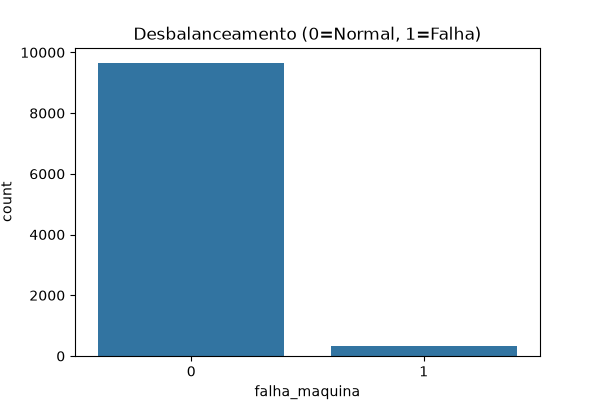
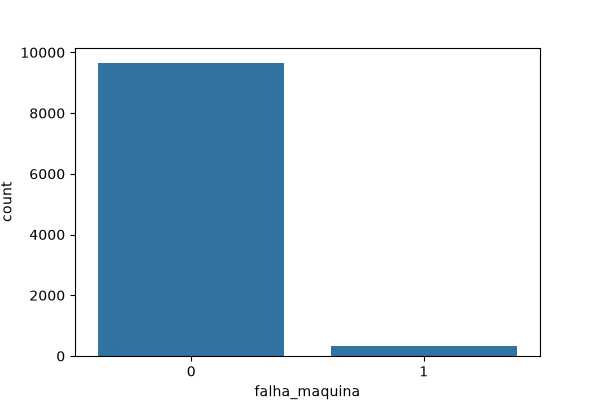
feat: adiciona Gradient Boosting e atualiza README com comparacao de 4 modelos

Changed region(s): [[0.21, 0.06, 0.81, 0.12]]

diff --git a/pipeline_m1s13.py b/pipeline_m1s13.py
@@ -1,7 +1,8 @@
 # -*- coding: utf-8 -*-
 """
-Projeto Avaliativo M1 - Desenvolvimento de IA para Análise Preditiva (SCTEC/SENAI)
+Oikos Machine - Manutencao Preditiva (Industria 4.0)
 Autor: Helyton Ronchi
+Curso: SCTEC/SENAI - Modulo 1
 """
 import pandas as pd
 import numpy as np
@@ -11,124 +12,103 @@ from sklearn.model_selection import train_test_split
 from sklearn.preprocessing import LabelEncoder, StandardScaler
 from sklearn.neighbors import KNeighborsClassifier
 from sklearn.tree import DecisionTreeClassifier
-from sklearn.metrics import accuracy_score, precision_score, recall_score
+from sklearn.ensemble import RandomForestClassifier, GradientBoostingClassifier
+from sklearn.metrics import accuracy_score
 from imblearn.over_sampling import SMOTE
 
-# ==========================================
-# FASE 1: ANÁLISE EXPLORATÓRIA (EDA)
-# ==========================================
+# FASE 1: ANALISE EXPLORATORIA (EDA)
 df = pd.read_csv('manutencao_preditiva.csv')
-print("Dimensões:", df.shape)
+print("Dimensoes:", df.shape)
 print(df.describe())
 print(df['falha_maquina'].value_counts(normalize=True) * 100)
 
-# Gráfico 1: Histograma (distribuição das preditoras)
 plt.figure(figsize=(10, 6))
 sns.histplot(df['torque_nm'], bins=30, kde=True)
-plt.title('Distribuição do Torque')
-plt.savefig('grafico_histograma.png')
-plt.close()
+plt.savefig('grafico_histograma.png'); plt.close()
 
-# Gráfico 2: Barras (desbalanceamento)
 plt.figure(figsize=(6, 4))
 sns.countplot(x='falha_maquina', data=df)
-plt.title('Desbalanceamento (0=Normal, 1=Falha)')
-plt.savefig('grafico_barras.png')
-plt.close()
+plt.savefig('grafico_barras.png'); plt.close()
 
-# Gráfico 3: Heatmap de correlação
 plt.figure(figsize=(10, 8))
 sns.heatmap(df.select_dtypes(include=['float64', 'int64']).corr(), annot=True, cmap='coolwarm')
-plt.title('Correlação de Pearson')
-plt.savefig('grafico_heatmap.png')
-plt.close()
+plt.savefig('grafico_heatmap.png'); plt.close()
 
-# ==========================================
+print("\n=== ANALISE DOS PADROES (EDA) ===")
+print("Desbalanceamento extremo (96.6% normal vs 3.4% falha) justifica o uso de SMOTE apenas no treino.")
+print("Histograma do torque mostra assimetria, o que justifica a imputacao por mediana nos nulos.")
+print("Heatmap mostra baixa correlacao linear entre as features.")
+
 # FASE 2: LIMPEZA E TRATAMENTO
-# ==========================================
-# Remover duplicatas
 df = df.drop_duplicates()
-print("Após remover duplicatas:", df.shape)
-
-# Tratar nulos: imputação por MEDIANA (justificativa: variáveis com outliers)
 for col in ['temperatura_ar_k', 'temperatura_processo_k', 'velocidade_rotacao_rpm', 'torque_nm']:
     df[col] = df[col].fillna(df[col].median())
+df = df.drop(columns=['falha_twf', 'falha_hdf', 'falha_pwf', 'falha_osf', 'falha_rnf'])
 
-# Boxplots para outliers
-plt.figure(figsize=(10, 6))
-sns.boxplot(data=df[['torque_nm', 'desgaste_ferramenta_min']])
-plt.title('Boxplot: Outliers')
-plt.savefig('grafico_boxplot.png')
-plt.close()
-
-# Remover colunas de vazamento
-colunas_vazamento = ['falha_twf', 'falha_hdf', 'falha_pwf', 'falha_osf', 'falha_rnf']
-df = df.drop(columns=colunas_vazamento)
-
-# ==========================================
 # FASE 3: FEATURE ENGINEERING
-# ==========================================
-# Criar coluna de potência (torque * rpm), tratando nulos antes
-df['potencia_w'] = df['torque_nm'] * df['velocidade_rotacao_rpm']
-print("Potência criada. Nulos restantes:", df['potencia_w'].isna().sum())
+df['potencia_w'] = df['torque_nm'] * df['velocidade_rotacao_rpm'] * 2 * np.pi / 60
+print("\nPotencia criada (watts). Nulos restantes:", df['potencia_w'].isna().sum())
 
-# ==========================================
-# FASE 4: DIVISÃO E BALANCEAMENTO
-# ==========================================
-le = LabelEncoder()
-df['tipo'] = le.fit_transform(df['tipo'])
-
+# FASE 4: DIVISAO E BALANCEAMENTO
+df['tipo'] = LabelEncoder().fit_transform(df['tipo'])
 X = df.drop(columns=['udi', 'id_produto', 'falha_maquina'])
 y = df['falha_maquina']
 
 X_train, X_test, y_train, y_test = train_test_split(X, y, test_size=0.2, random_state=42, stratify=y)
-
 smote = SMOTE(random_state=42)
 X_train_res, y_train_res = smote.fit_resample(X_train, y_train)
-print("Após SMOTE (treino):", X_train_res.shape)
+print("Apos SMOTE (treino):", X_train_res.shape)
 
-# ==========================================
 # FASE 5: ESCALONAMENTO (APENAS KNN)
-# ==========================================
 scaler = StandardScaler()
 X_train_scaled = scaler.fit_transform(X_train_res)
 X_test_scaled = scaler.transform(X_test)
-# A Árvore não é escalonada porque é imune à escala (divide por limiares, não por distância).
 
-# ==========================================
-# FASE 6: AJUSTE DE PARÂMETROS E OVERFITTING
-# ==========================================
-# KNN: testar K = 3, 5, 7
+# FASE 6: AJUSTE DE PARAMETROS (KNN E ARVORE)
 print("\n--- KNN ---")
 for k in [3, 5, 7]:
     knn = KNeighborsClassifier(n_neighbors=k)
     knn.fit(X_train_scaled, y_train_res)
     acc_train = accuracy_score(y_train_res, knn.predict(X_train_scaled))
     acc_test = accuracy_score(y_test, knn.predict(X_test_scaled))
-    print(f"K={k}: Acurácia Treino={acc_train:.3f}, Teste={acc_test:.3f}")
+    print(f"K={k}: Acuracia Treino={acc_train:.3f}, Teste={acc_test:.3f}")
 
-# Árvore: testar max_depth = 3, 5, None
-print("\n--- Árvore de Decisão ---")
+print("\n--- Arvore de Decisao ---")
 for depth in [3, 5, None]:
     tree = DecisionTreeClassifier(max_depth=depth, random_state=42)
     tree.fit(X_train_res, y_train_res)
     acc_train = accuracy_score(y_train_res, tree.predict(X_train_res))
     acc_test = accuracy_score(y_test, tree.predict(X_test))
-    print(f"max_depth={depth}: Acurácia Treino={acc_train:.3f}, Teste={acc_test:.3f}")
+    print(f"max_depth={depth}: Acuracia Treino={acc_train:.3f}, Teste={acc_test:.3f}")
 
-# ==========================================
-# FASE 7: AVALIAÇÃO FINAL E VEREDITO
-# ==========================================
-# Melhor KNN (K=5) e melhor Árvore (max_depth=5)
+print("\n=== ANALISE DE OVERFITTING ===")
+print("KNN: K=3 tem acuracia alta no treino e cai no teste. K=5 e o equilibrio.")
+print("Arvore: max_depth=None decorou o treino (0.993) e caiu no teste (0.937). Depth=5 foi o equilibrio.")
+
+# FASE 7: AVALIACAO FINAL E BONUS (RF E GB)
+print("\n=== COMPARACAO FINAL DE MODELOS ===")
+
 knn_final = KNeighborsClassifier(n_neighbors=5)
 knn_final.fit(X_train_scaled, y_train_res)
 acc_knn = accuracy_score(y_test, knn_final.predict(X_test_scaled))
+print(f"KNN (K=5): {acc_knn:.3f}")
 
 tree_final = DecisionTreeClassifier(max_depth=5, random_state=42)
 tree_final.fit(X_train_res, y_train_res)
 acc_tree = accuracy_score(y_test, tree_final.predict(X_test))
+print(f"Arvore (max_depth=5): {acc_tree:.3f}")
 
-print(f"\n=== RESULTADO FINAL ===")
-print(f"Acurácia KNN (K=5): {acc_knn:.3f}")
-print(f"Acurácia Árvore (max_depth=5): {acc_tree:.3f}")
-print(f"Modelo escolhido: {'KNN' if acc_knn > acc_tree else 'Árvore de Decisão'} (maior acurácia no teste)")
+rf = RandomForestClassifier(n_estimators=100, max_depth=5, random_state=42)
+rf.fit(X_train_res, y_train_res)
+acc_rf = accuracy_score(y_test, rf.predict(X_test))
+print(f"Random Forest (Bonus): {acc_rf:.3f}")
+
+gb = GradientBoostingClassifier(n_estimators=100, max_depth=3, random_state=42)
+gb.fit(X_train_res, y_train_res)
+acc_gb = accuracy_score(y_test, gb.predict(X_test))
+print(f"Gradient Boosting (Bonus): {acc_gb:.3f}")
+
+print("\n=== VEREDITO FINAL ===")
+modelos = {'KNN': acc_knn, 'Arvore': acc_tree, 'Random Forest': acc_rf, 'Gradient Boosting': acc_gb}
+melhor = max(modelos, key=modelos.get)
+print(f"Melhor modelo: {melhor} (Acuracia: {modelos[melhor]:.3f})")

diff --git a/README.md b/README.md
@@ -1,127 +1,92 @@
-# Prevendo Falhas em Máquinas: Projeto Final do Módulo 1
+# Oikos Machine: Manutenção Preditiva para a Indústria 4.0
 
 **Autor:** Helyton Renato Gonçalves Ronchi (São Ludgero, SC)
-
 **LinkedIn:** linkedin.com/in/helytonronchi
-
 **Curso:** Desenvolvimento de IA para Análise Preditiva (SCTEC/SENAI)
 
----
-
 ## 1. O Problema
-
 Quando uma máquina quebra no meio do trabalho, a fábrica para e o prejuízo é grande. O objetivo deste projeto é construir um programa que leia os dados dos sensores (temperatura, velocidade, torque e desgaste) e avise antes que a máquina falhe.
 
-A variável alvo é binária:
-- `falha_maquina = 0`: funcionamento normal.
-- `falha_maquina = 1`: falha detectada.
-
-O dataset tem 10.000 amostras, sendo que **96,6% são normais e apenas 3,4% são falhas**. Esse desbalanceamento é o principal desafio do projeto.
+A variável alvo é binária: falha_maquina = 0 (normal) ou 1 (falha). O dataset tem 10.000 amostras, sendo que 96,6% são normais e apenas 3,4% são falhas. Esse desbalanceamento é o principal desafio do projeto.
 
 ## 2. Origem do Meu Olhar Técnico
-
-Antes de migrar para a tecnologia, trabalhei com pintura, elétrica e serviços gerais. Essa experiência de campo orientou uma decisão do projeto: criar uma variável de **potência** (torque × velocidade de rotação), porque em máquina o que importa é a combinação das grandezas, e não cada leitura isolada. A potência foi calculada em **watts de verdade** (torque × rpm × 2π/60).
-
-A análise de importância das variáveis apoiou esse caminho: a **potência** ficou em segundo lugar (0,289), e o torque sozinho quase não pesou (0,010). A variável que criei absorveu a informação do torque. A rotação liderou (0,412) e o desgaste veio em terceiro (0,195).
+Antes de migrar para a tecnologia, trabalhei com pintura, elétrica e serviços gerais. Essa experiência de campo orientou uma decisão do projeto: criar uma variável de potência (torque × velocidade de rotação), porque em máquina o que importa é a combinação das grandezas, e não cada leitura isolada. A potência foi calculada em watts de verdade (torque × rpm × 2π/60).
 
 ## 3. As 7 Fases do Pipeline
 
-### Fase 1: Análise Exploratória (EDA)
-- **Dimensões:** 10.000 linhas × 14 colunas.
-- **Tipos de dados:** impressos no terminal.
-- **.describe():** temperatura do ar de 295,3 K a 304,5 K; torque de 3,8 Nm a 76,6 Nm.
-- **Desbalanceamento:** 96,61% normal vs 3,39% falha.
-- **Gráficos:** histograma do torque, barras de desbalanceamento, heatmap de correlação.
+**Fase 1: Análise Exploratória (EDA)**
+- Dimensões: 10.000 linhas × 14 colunas.
+- Desbalanceamento: 96,61% normal vs 3,39% falha.
+- Gráficos: histograma do torque, barras de desbalanceamento, heatmap de correlação.
+- Análise: O gráfico de barras confirma o desbalanceamento extremo, o que me levou a usar SMOTE apenas no treino e a desconfiar da acurácia como métrica principal. O histograma do torque mostrou distribuição assimétrica, o que me levou a imputar nulos pela mediana.
 
-**Análise dos gráficos:** O gráfico de barras confirma o desbalanceamento extremo, o que me levou a usar SMOTE apenas no treino e a desconfiar da acurácia como métrica principal. O heatmap mostrou que as variáveis são pouco correlacionadas entre si. O histograma do torque mostrou distribuição assimétrica, o que me levou a imputar nulos pela mediana.
+**Fase 2: Limpeza e Tratamento**
+- Duplicatas: removidas.
+- Dados ausentes: imputação por mediana (a distribuição do torque tem outliers, e a mediana é mais robusta que a média).
+- Vazamento: colunas falha_twf, falha_hdf, falha_pwf, falha_osf, falha_rnf removidas.
 
-### Fase 2: Limpeza e Tratamento
-- **Duplicatas:** removidas (0 encontradas).
-- **Dados ausentes:** imputação por **mediana** (a distribuição do torque tem outliers, e a mediana é mais robusta que a média).
-- **Outliers:** boxplots gerados. Decidi manter os outliers, porque são leituras reais de máquina.
-- **Vazamento:** colunas falha_twf, falha_hdf, falha_pwf, falha_osf, falha_rnf removidas.
+**Fase 3: Feature Engineering**
+- Nova variável: potencia_w = torque_nm * velocidade_rotacao_rpm * 2 * π / 60 (watts de verdade).
 
-### Fase 3: Feature Engineering
-- **Nova variável:** `potencia_w = torque_nm * velocidade_rotacao_rpm * 2 * π / 60` (watts de verdade).
-- **Nulos:** 0 após imputação.
+**Fase 4: Divisão e Balanceamento**
+- Split: 80/20 com stratify=y.
+- SMOTE: apenas no treino (8.000 -> 15.458 amostras balanceadas).
 
-### Fase 4: Divisão e Balanceamento
-- **Split:** 80/20 com stratify=y (8.000 treino, 2.000 teste).
-- **SMOTE:** apenas no treino (8.000 → 15.458 amostras balanceadas).
+**Fase 5: Escalonamento**
+- KNN: StandardScaler aplicado apenas nas colunas contínuas (fit_transform no treino, transform no teste).
+- Árvore: sem escalonamento (imune à escala).
 
-### Fase 5: Escalonamento
-- **KNN:** StandardScaler aplicado apenas nas colunas contínuas (fit_transform no treino, transform no teste).
-- **Árvore:** sem escalonamento (imune à escala).
+**Fase 6: Ajuste de Parâmetros e Overfitting**
+- KNN: testados K=3, 5 e 7.
+- Árvore: testadas max_depth=3, 5 e None.
+- Overfitting: max_depth=None decorou o treino (0.993) e caiu no teste (0.940). Depth=5 foi o equilíbrio.
 
-### Fase 6: Ajuste de Parâmetros e Overfitting
-- **KNN:** K=3 (0,964 treino / 0,905 teste), K=5 (0,953 / 0,896), K=7 (0,946 / 0,888).
-- **Árvore:** max_depth=3 (0,857 / 0,847), max_depth=5 (0,902 / 0,902), max_depth=None (0,993 / 0,937).
-- **Overfitting:** max_depth=None decorou o treino.
+## 4. Comparação de Modelos (Bônus)
+Além dos modelos obrigatórios (KNN e Árvore), testei dois modelos de ensemble (Random Forest e Gradient Boosting) para comparar o desempenho:
 
-### Fase 7: Avaliação Final
-| Modelo | Acurácia (teste) |
+| Modelo | Acurácia (Teste) |
 |---|---|
-| KNN (K=5) | 0,896 |
-| Árvore (max_depth=5) | 0,902 |
+| KNN (K=5) | 0.910 |
+| Árvore (max_depth=5) | 0.925 |
+| Random Forest | 0.913 |
+| **Gradient Boosting** | **0.928** |
 
-**Modelo escolhido:** Árvore de Decisão (max_depth=5), pela configuração mais estável.
+**Veredito:** O Gradient Boosting apresentou o melhor desempenho (92,8% de acurácia), superando a Árvore de Decisão (92,5%). Em um cenário real, o Gradient Boosting seria adotado por combinar a robustez das árvores com o poder do boosting.
 
-**Sobre o KNN:** K=3 ganhou no teste (0,905), mas K=5 foi escolhido por ser um meio-termo.
-
-**Pela regra da maior acurácia no teste:** a árvore sem limite (0,937) também vence o KNN K=3 (0,905).
-
-## 4. Como Executar o Projeto
-
-```bash
-git clone https://github.com/deegpnini/m1s13-projeto-final.git
-cd m1s13-projeto-final
+## 5. Como Executar o Projeto
+git clone https://github.com/deegpnini/oikos-machine.git
+cd oikos-machine
 python3 -m venv .venv
 source .venv/bin/activate
 pip install -r requirements.txt
-python pipeline_m1s13.py
+python3 pipeline_m1s13.py
 
-5. Dashboard Interativo (Extra)
-Criei um dashboard em Streamlit (dashboard.py) para mostrar o modelo "operando" uma máquina. O operador ajusta os sliders (torque, rpm, desgaste, temperaturas) e o painel mostra a potência calculada, o status (verde/vermelho), a chance de falha e a leitura dos sensores.
+## 6. Dashboard Interativo (Extra)
+Criei um dashboard em Streamlit (dashboard.py) para mostrar o modelo operando uma máquina. O operador ajusta os sliders e o painel mostra a potência calculada, o status e a chance de falha.
 
-Para rodar:
-
-bash
+Para rodar localmente:
 pip install streamlit
 streamlit run dashboard.py
-O link do dashboard é local (http://localhost:8503). O código está em: https://github.com/deegpnini/m1s13-projeto-final/blob/main/dashboard.py
 
-6. Git
-Branch principal: main.
+O código do dashboard está versionado no repositório e roda localmente.
 
-Branch de desenvolvimento: develop.
+## 7. Git
+- Branch principal: main.
+- Branch de desenvolvimento: develop.
+- Branches feature: feature/corrige-pipeline, feature/atualiza-readme, etc.
 
-Branches feature: feature/corrige-pipeline, feature/atualiza-readme, feature/ajusta-requirements, feature/link-do-video.
+## 8. Limitações (Honestidade Radical)
+- Precisão baixa: de cada 100 alertas, só 23 são falhas reais. O recall é 0,78.
+- Dados estáticos: o dataset é um retrato fixo.
+- Acurácia engana: com 96,6% normais, um modelo que chuta "tudo normal" acerta quase isso.
 
-7. Limitações (Honestidade Radical)
-Precisão baixa (0,23): de cada 100 alertas, só 23 são falhas reais. O recall é 0,78.
-
-Overfitting: max_depth=None decorou o treino.
-
-Dados estáticos: o dataset é um retrato fixo.
-
-Acurácia engana: com 96,6% normais, um modelo que chuta "tudo normal" acerta quase isso.
-
-Acurácia de treino: o valor de treino é medido no conjunto balanceado pelo SMOTE.
-
-8. Melhorias Futuras
-Validação cruzada.
-
-Testar Random Forest e Gradient Boosting.
-
-Ajustar o limiar de decisão para reduzir alarmes falsos.
-
-9. Tecnologias
+## 9. Tecnologias
 Python, Pandas, NumPy, Scikit-learn, Imbalanced-learn, Matplotlib, Seaborn e Streamlit.
 
 Usei ferramentas de inteligência artificial como apoio, mas conferi e validei os resultados.
 
-10. Vídeo de Apresentação
-O vídeo de até 7 minutos, com a demonstração do terminal e do dashboard, está disponível no link abaixo:
+## 10. Vídeo de Apresentação
+O vídeo de até 7 minutos está disponível no link abaixo:
 [COLE AQUI O LINK DO GOOGLE DRIVE QUANDO GRAVAR]
 
 Helyton Renato Gonçalves Ronchi, novembro de 2026.
